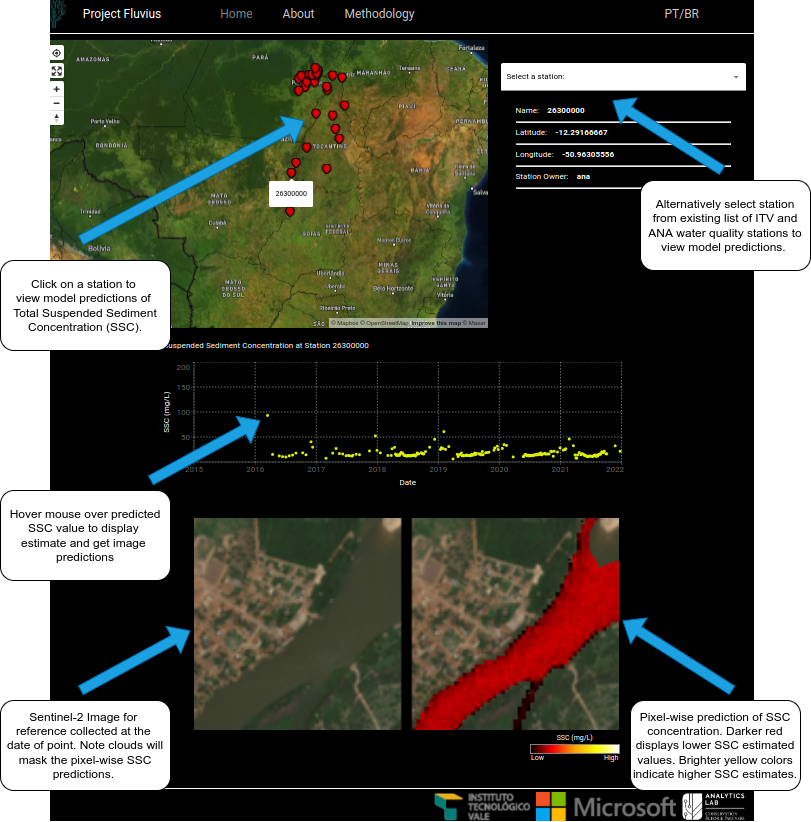
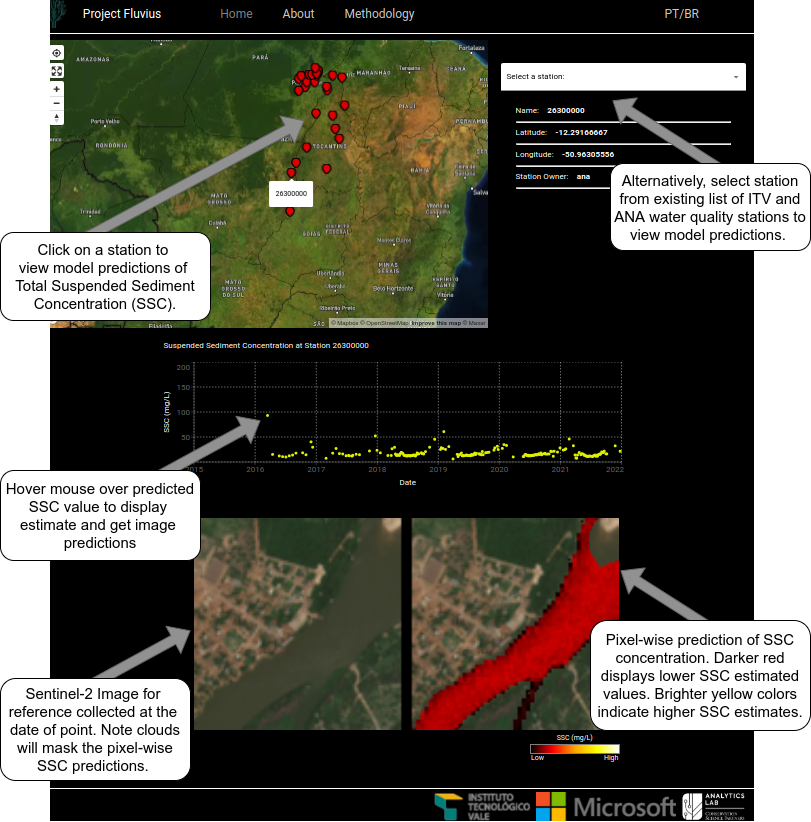
Updated modal graphics and included a Portugese version.

diff --git a/ms-brazil/src/pages/pt_br/Inicio.js b/ms-brazil/src/pages/pt_br/Inicio.js
@@ -3,7 +3,7 @@ import "../../App.css";
 import Map from "../../components/Map";
 import MapStationsPT from "../../components/MapStationsPT"
 import FluviusBoxPT from "../../components/FluviusBoxPT"
-import modalgraphic from "../../images/modal_graphic.png";
+import modalgraphic from "../../images/modal_graphic_pt.png";
 import {Box, Typography, Modal} from "@material-ui/core";
 import {FlyToInterpolator} from 'react-map-gl';
 import { makeStyles } from "@material-ui/core/styles";
